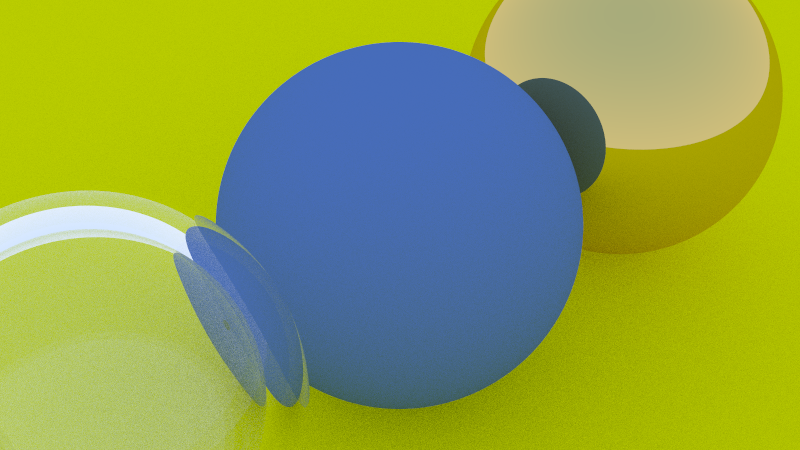
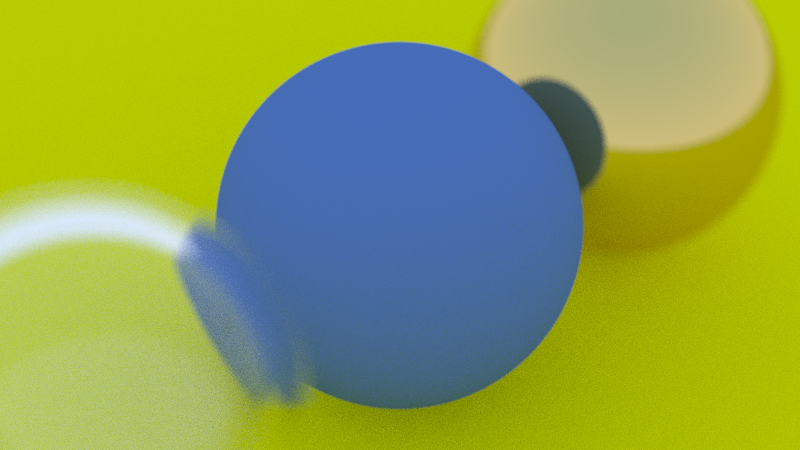
Add de-focus blur based on distance to target point

diff --git a/src/camera.rs b/src/camera.rs
@@ -1,12 +1,16 @@
 use crate::types::{Point3, Ray, Vect3};
+use rand::{thread_rng, Rng};
+use rand_distr::Uniform;
+use std::f32::consts::PI;
 
 /// A camera abstraction.
 #[derive(Debug, Clone, Copy)]
 pub struct Camera {
     origin: Point3,
     corner: Point3,
-    horiz: Vect3,
-    vert: Vect3,
+    camera_cs: (Vect3, Vect3, Vect3),
+    image_plane: (Vect3, Vect3),
+    radius: f32,
 }
 
 impl Camera {
@@ -15,33 +19,61 @@ impl Camera {
     /// # Arguments
     ///
     /// * `origin` - the origin of the camera
-    /// * `target` - the point at which the camera is looking
+    /// * `target` - the point at which the camera is focused
     /// * `vertical` - the upward direction of the camera
     /// * `focal_length` - the focal length of the camera
+    /// * `aperture` - the aperture of the camera, in f-stops
     /// * `viewport` - width and height of the viewport
     pub fn new(
         origin: Point3,
         target: Point3,
         vertical: Vect3,
         focal_length: f32,
+        aperture: f32,
         viewport: (f32, f32),
     ) -> Camera {
-        let optical = (origin - target).normalize();
-        let horiz = viewport.0 * vertical.normalize().cross(optical).normalize();
-        let vert = viewport.1 * optical.cross(horiz.normalize());
-        // Finally, construct the camera.
-        let corner = origin - (horiz / 2.0) - (vert / 2.0) - (optical * focal_length);
+        // Assume we want the field-of-view as if the image plane was at distance
+        // `a`, but we need to place the image at distance `b` for focusing. This
+        // is essentially equivalent to scaling up the size of the image plane by
+        // a factor `b/a` while still aiming the rays at `b`.
+        let focus_dist = (origin - target).norm();
+        let image_scale = (focus_dist / focal_length).abs();
+        // The radius of the lens is given by the f-stop aperture.
+        let radius = (focal_length / aperture) / 2.0;
+        // Calculate the three base vectors of the camera coordinate system.
+        let z = (origin - target).normalize();
+        let x = vertical.normalize().cross(z).normalize();
+        let y = z.cross(x);
+        // Compute the lower left corner of the image plane.
+        let horiz = image_scale * viewport.0 * x;
+        let vert = image_scale * viewport.1 * y;
+        let corner = origin - (horiz / 2.0) - (vert / 2.0) - (z * focus_dist);
+        // Construct the camera!
         Camera {
             origin,
             corner,
-            horiz,
-            vert,
+            camera_cs: (x, y, z),
+            image_plane: (horiz, vert),
+            radius,
         }
+    }
+
+    /// Sample a singe point for a perfectly circular aperture.
+    fn sample_aperture(&self) -> Vect3 {
+        let mut rng = thread_rng();
+        // Generate a random point on the disk with radius r.
+        let r: f32 = rng.sample(Uniform::new_inclusive(0.0, 1.0));
+        let phi: f32 = rng.sample(Uniform::new(0.0, 2.0 * PI));
+        // Offset the aperture rays along the plane of the aperture.
+        let (x, y, _) = &self.camera_cs;
+        (self.radius * x * r.sqrt() * phi.cos()) + (self.radius * y * r.sqrt() * phi.sin())
     }
 
     /// Get a ray pointing through a specific viewport position.
     pub fn ray(&self, u: f32, v: f32) -> Ray {
-        let direction = self.corner + (u * self.horiz) + (v * self.vert) - self.origin;
-        Ray::new(self.origin, direction)
+        let (w, h) = &self.image_plane;
+        let offset = self.sample_aperture();
+        let direction = self.corner + (w * u) + (h * v) - self.origin;
+        Ray::new(self.origin + offset, direction - offset)
     }
 }

diff --git a/src/lib.rs b/src/lib.rs
@@ -98,12 +98,13 @@ where
     let angle_of_view = 40.0_f32.to_radians();
     let diagonal = (viewport.0.powi(2) + viewport.1.powi(2)).sqrt();
     let focal_length = (diagonal / 2.0) / (angle_of_view / 2.0).tan();
+    let aperture = 16.0;
 
     // Camera definition
     let origin = Point3(-2.0, 2.0, 1.0);
     let target = Point3(0.0, 0.0, -1.0);
     let vertical = Vect3(0.0, 1.0, 0.0);
-    let camera = Camera::new(origin, target, vertical, focal_length, viewport);
+    let camera = Camera::new(origin, target, vertical, focal_length, aperture, viewport);
 
     // Render the image!
     for (y, row) in image.iter_mut().rev().enumerate() {
